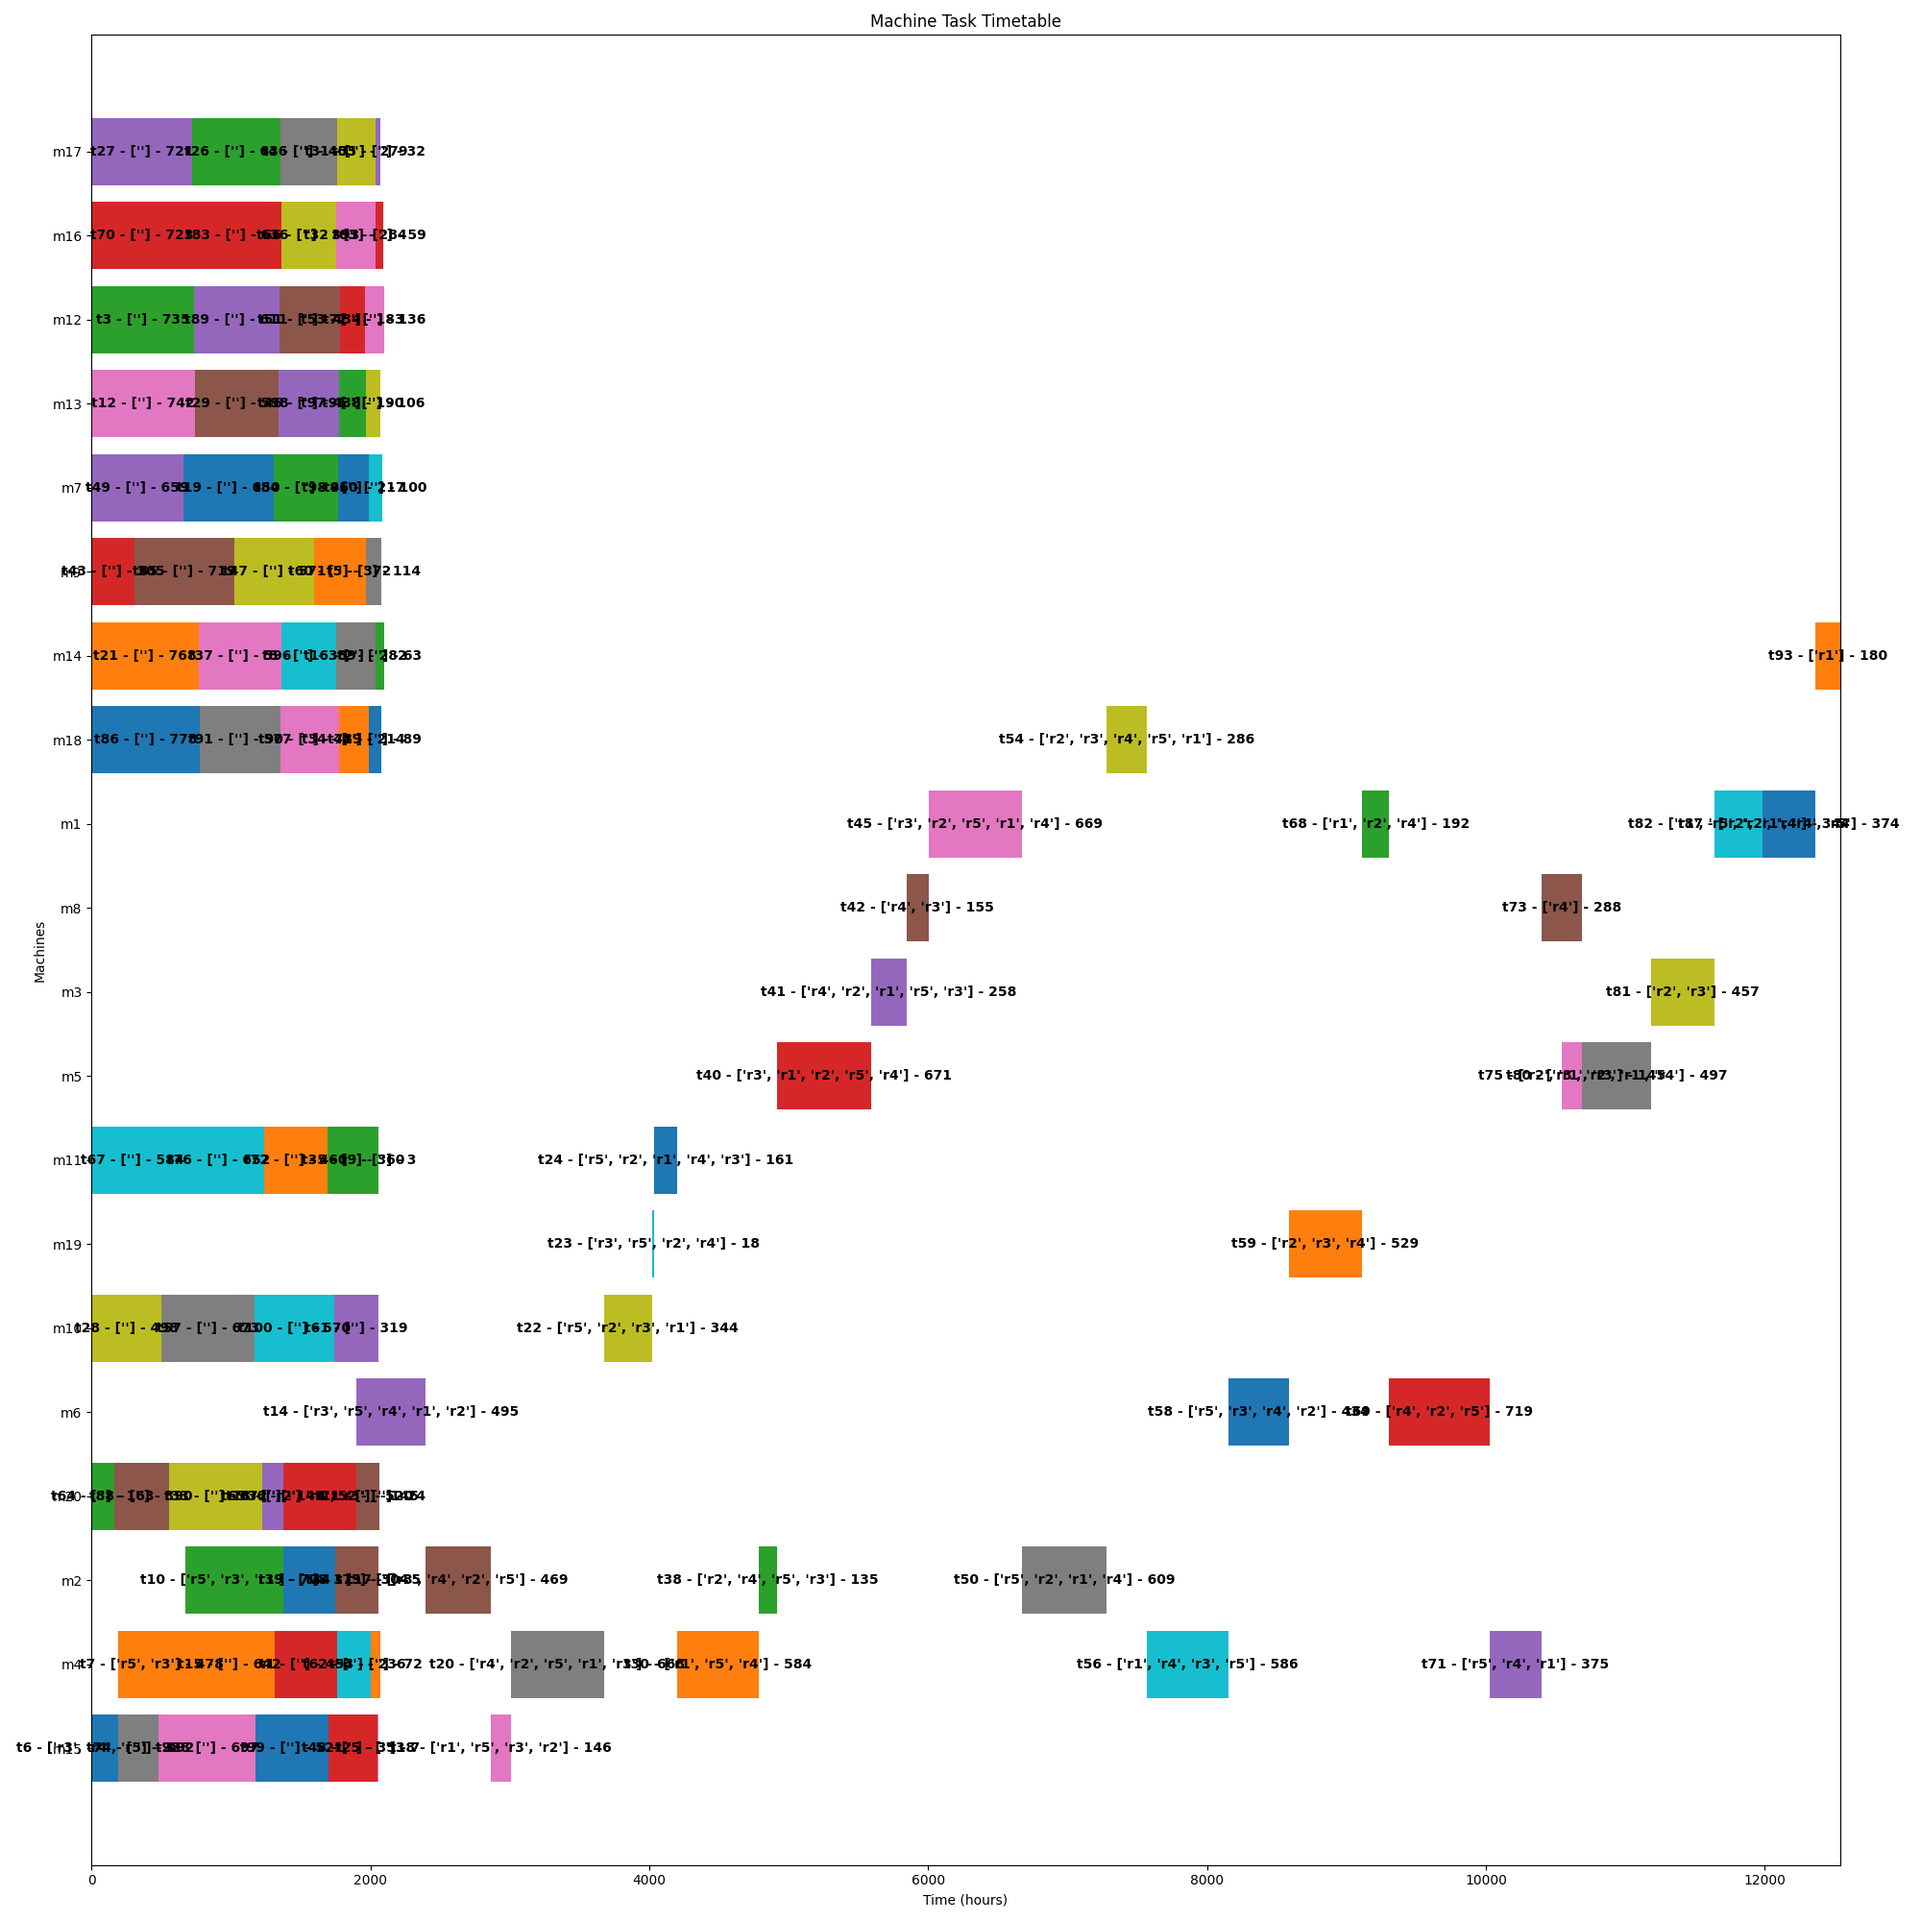
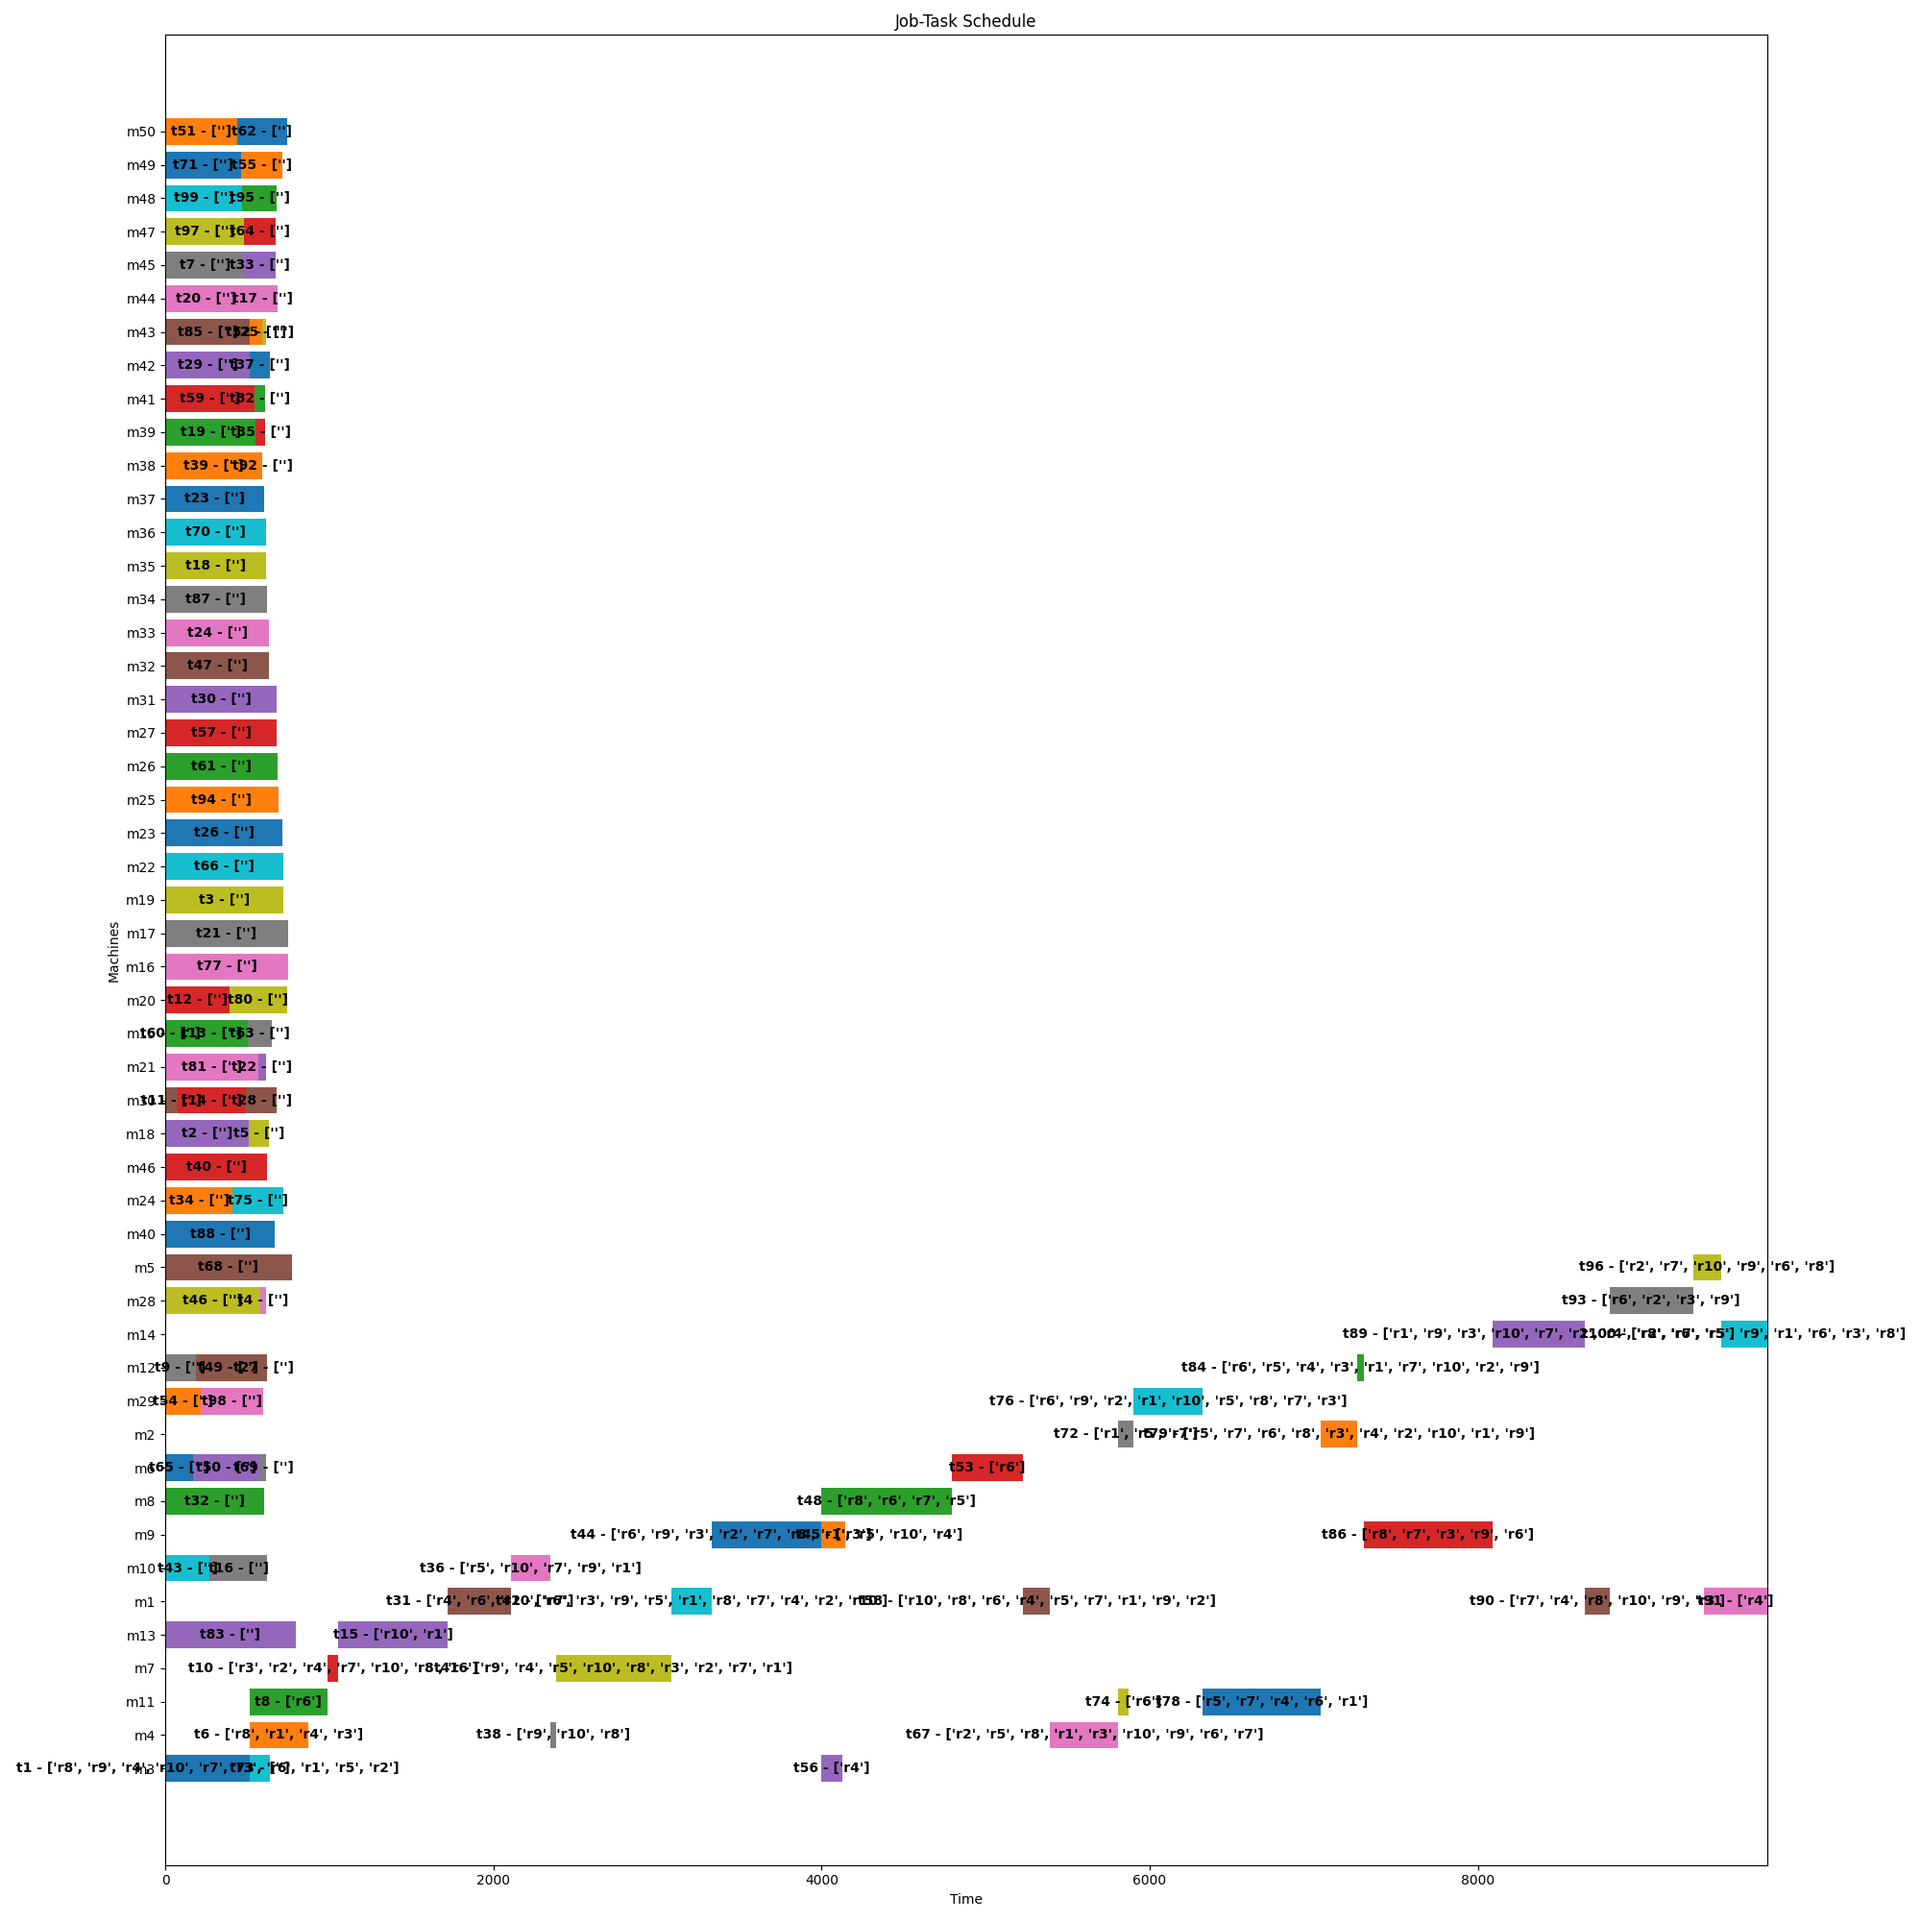
up to now it solves t100m50r10-20.pl and the solution checker says it is a solution (and the best one)

diff --git a/mainGreedy.py b/mainGreedy.py
@@ -232,12 +232,6 @@ class Problem:
         solver = Solver.lookup(solver_name)
         instance = Instance(solver, model)
         
-        print("num Tests: ", self.num_tests_modelA)
-        print("num Machines: ", self.num_machines)
-        print("num Resources: ", self.num_resources_effective)
-        print("effective resources: ", self.resources_effective_modelA)
-        print()
-        
         ## load the data into the model
         instance["num_tests"] = self.num_tests_modelA
         instance["num_machines"] = self.num_machines
@@ -250,19 +244,6 @@ class Problem:
         
         instance["resources_allowed"] = self.resources_effective_modelA
         
-        resources_aux = [(self.resources_effective_modelA[i]).copy() for i in range(self.num_resources_effective)]
-        print("resources_aux: ", resources_aux[0])
-        
-        for i in range(self.num_resources_effective):
-            highest = max(resources_aux[i])
-            resources_aux[i].remove(highest)
-        
-        self.order_resources = resources_aux
-        
-        print("resources_aux2: ", resources_aux)
-        print("resources_allowed: ", self.resources_effective_modelA)
-        instance["order_resources"] = self.order_resources
-        
         instance["offset_machine"] = self.offset_machine
         instance["offset_which_machine"] = self.offset_which_machine
         
@@ -270,6 +251,7 @@ class Problem:
         self.result = instance.solve()
     
     
+    ##! Not used with the greedy algorithm
     def load_modelB(self, solver_name="cbc"):
         
         self.makespan_A = self.result["makespan"]
@@ -340,7 +322,6 @@ class Problem:
         print("makespan A: ", self.makespan_A)
         print("machines assigned A: ", self.machines_assigned_A)
         print("start times A: ", self.start_times_A)
-        print("order resources: ", self.order_resources)
         
         print()
         
@@ -561,7 +542,6 @@ class Problem:
         tasks = [f"t{task}" for task in tasks_data]
         resources = [tasks_data[task][3] if tasks_data[task][3] != ['e']  else [''] for task in tasks_data]
         
-        # Create a DataFrame to hold task information
         df = pd.DataFrame({
             'Machine': machines,
             'Task': tasks,
@@ -570,28 +550,21 @@ class Problem:
             'Resource': resources
         })
 
-        # Create a figure and axis for plotting
         fig, ax = plt.subplots(figsize=(20, 20))
 
-        # Create a bar for each task with a different color from the distribution
         for i, task in enumerate(df.itertuples()):
-            
             ax.barh(task.Machine, task.Duration, left=task.Start, align='center')
-            # Add text inside the rectangle (task name centered)
-            ax.text(task.Start + task.Duration / 2, task.Machine, f"{task.Task} - {task.Resource} - {task.Duration}", va='center', ha='center', color='black', fontweight='bold')
+            ax.text(task.Start + task.Duration / 2, task.Machine, f"{task.Task} - {task.Resource}", va='center', ha='center', color='black', fontweight='bold')
 
         # Set labels and title
-        ax.set_xlabel('Time (hours)')
+        ax.set_xlabel('Time')
         ax.set_ylabel('Machines')
-        ax.set_title('Machine Task Timetable')
+        ax.set_title('Job-Task Schedule')
 
         # Set x-axis to start at zero and extend based on the task durations
         ax.set_xlim(0, max(df['Start'] + df['Duration']))
-
-        # Show the plot
+        
         plt.tight_layout()
-        # plt.show()
-
         plt.savefig(self.output_file_name + '.png')
         
         
